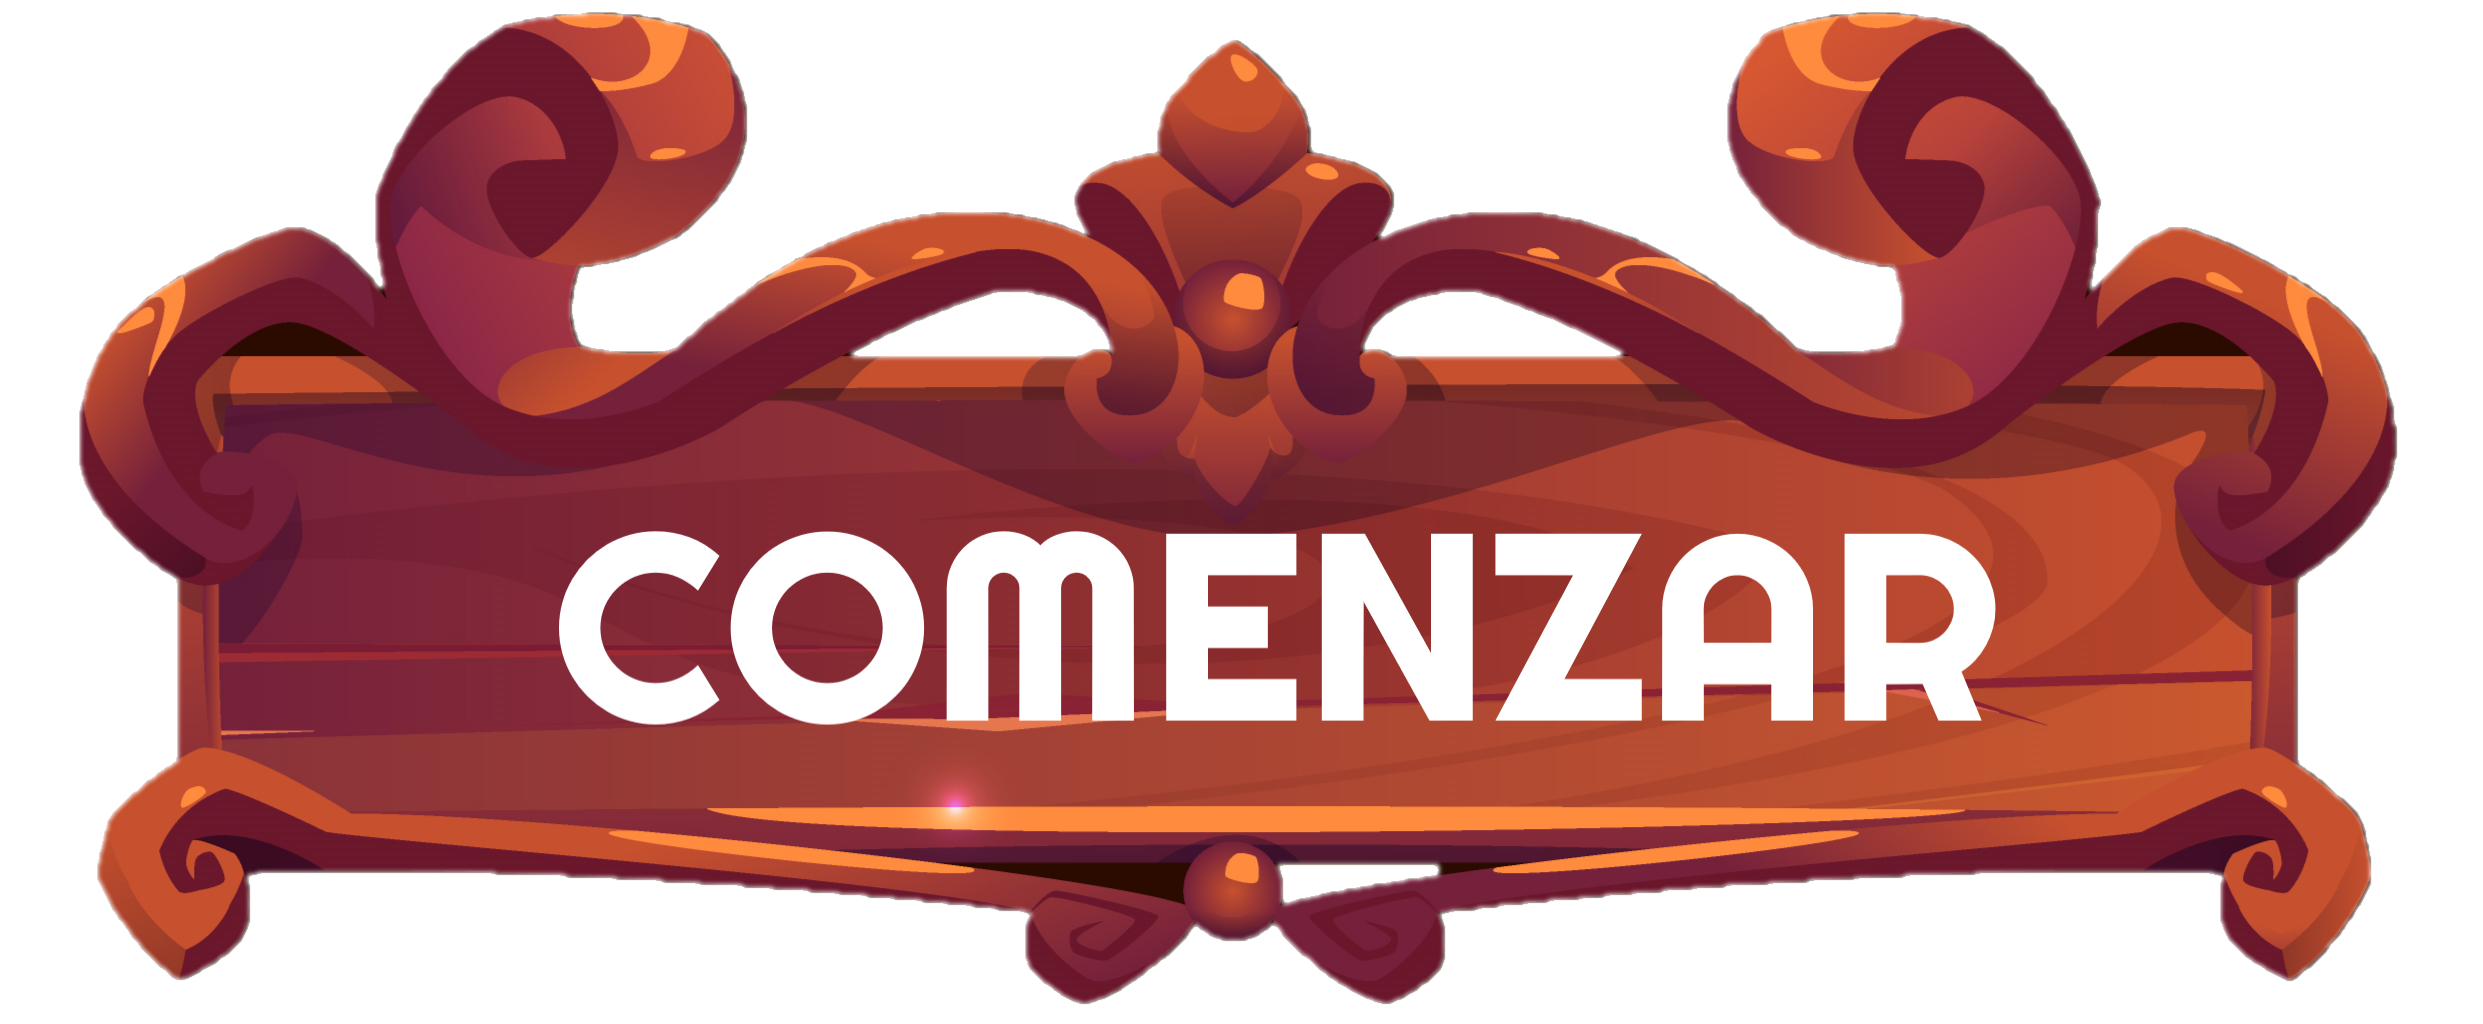
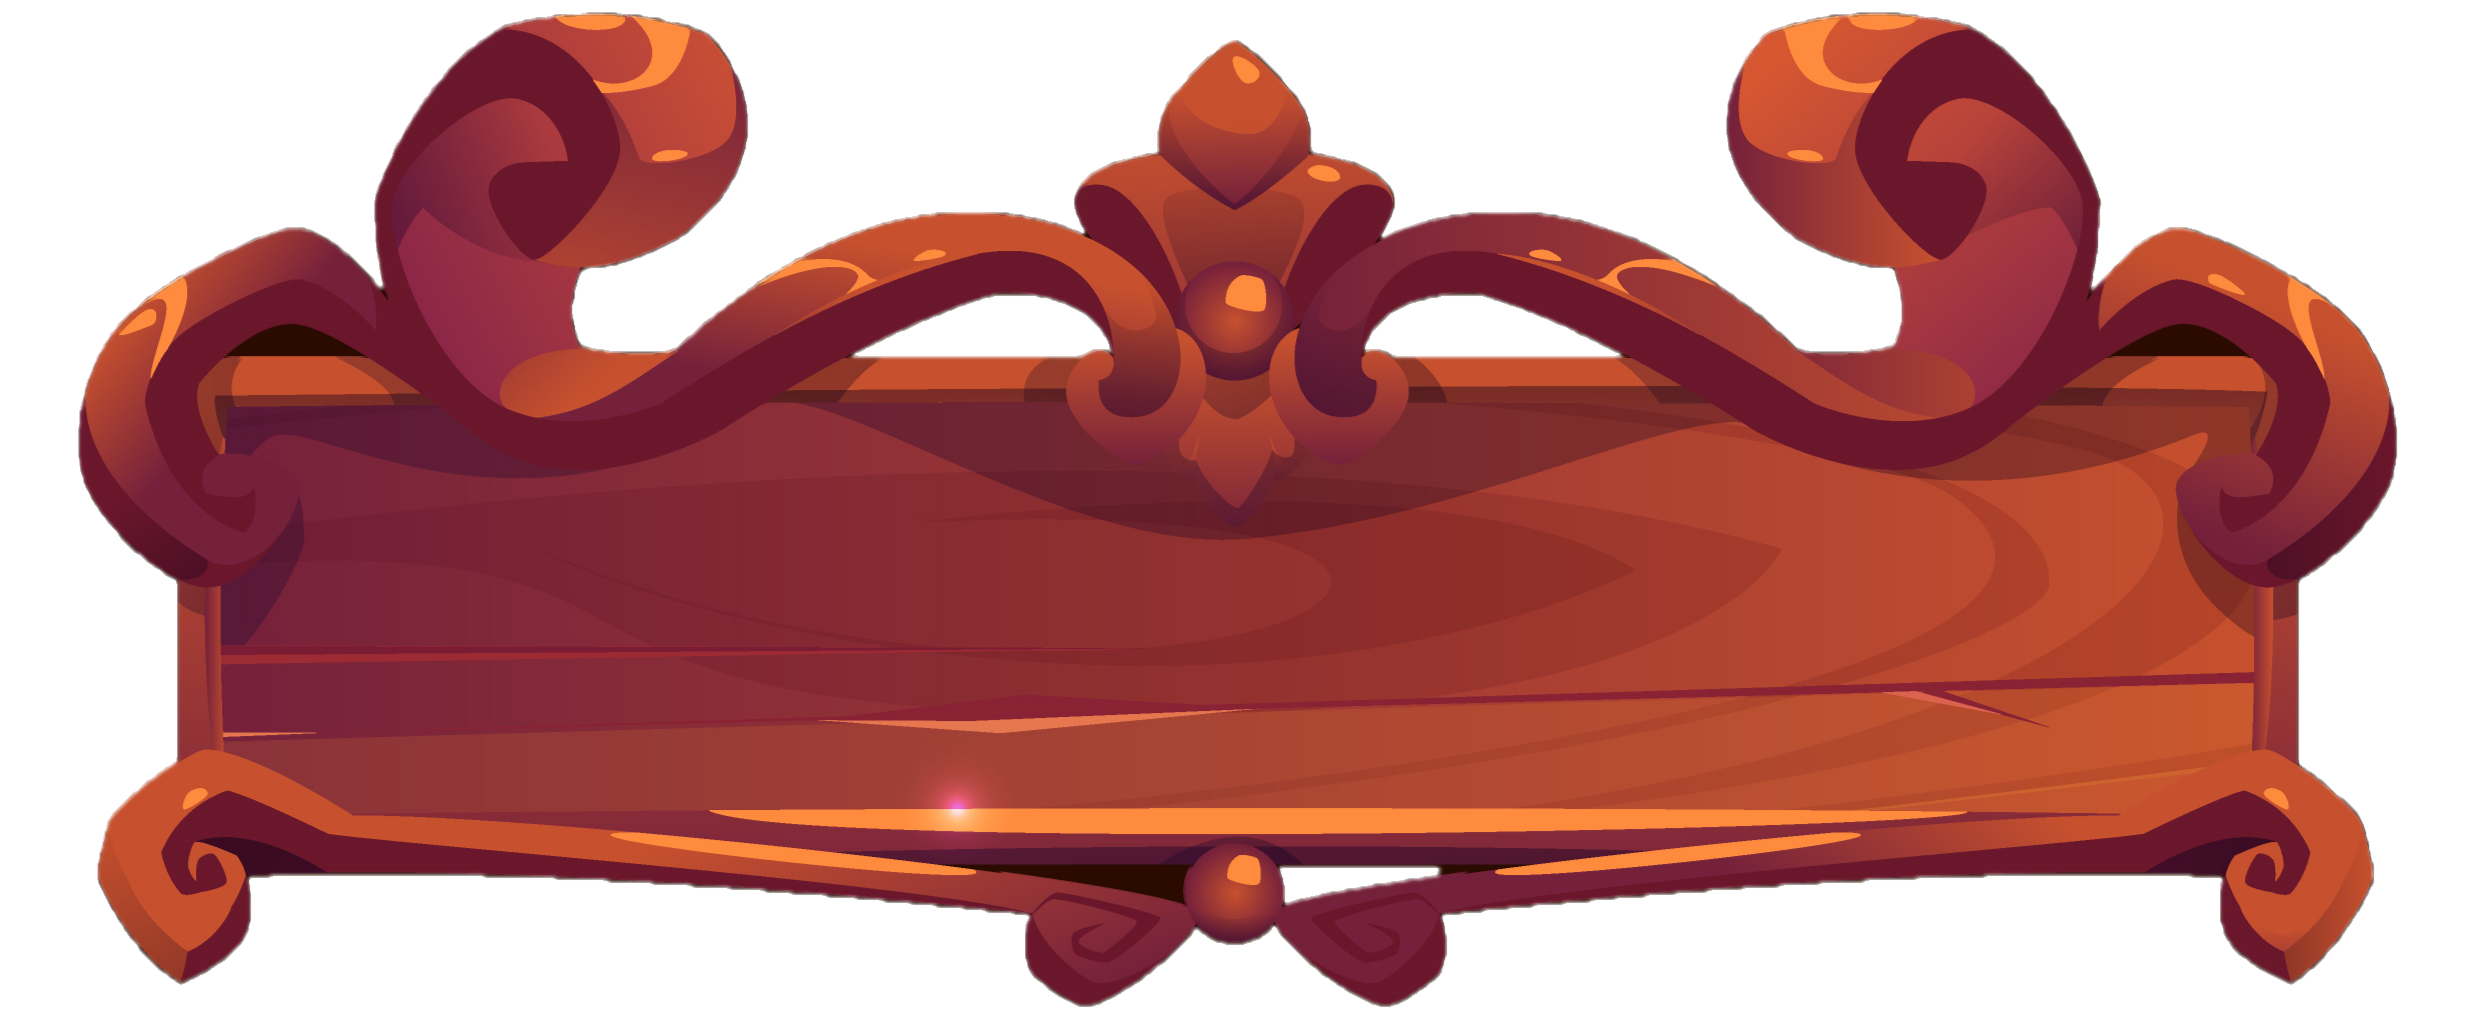
muy buen avance

diff --git a/static/js/combate.js b/static/js/combate.js
@@ -14,13 +14,13 @@ com_btn.addEventListener('mouseover',()=>{
     com_btn.style.cursor='pointer'
 })
 
-const actualizar =()=>{
-    cont_turnos.innerText=`Tu turno!`
-}
+
+    
+
 
 com_btn.addEventListener('click',()=>{
     acu++
-    actualizar()
+    cont_turnos.innerText=`Tu turno!`
     if(comprobador==1){
         document.querySelectorAll('hab-group').remove()        
         comprobador--
@@ -29,19 +29,21 @@ com_btn.addEventListener('click',()=>{
     hab_disp()
     hab_enem_disp()
     comprobador++
-  
+    document.getElementById("comenzar").className="animate__animated animate__fadeOut"
+    setTimeout(() => {
+        document.getElementById("comenzar").remove()
+    }, 1000);    
 })
 
-const pepe=new Mago('Adrian',valorAleatorio(1,5),valorAleatorio(5,10),valorAleatorio(1,8),valorAleatorio(1,8),valorAleatorio(5,10))
+const pepe=new Mago('Adrian',valorAleatorio(1,5),valorAleatorio(5,10),valorAleatorio(1,8),valorAleatorio(1,8),valorAleatorio(1,8))
 const enemyofpepe=new Esqueleto (valorAleatorio(1,4),valorAleatorio(1,2),valorAleatorio(1,10))
 
 const hab_disp=()=>{    
 pepe.habilidades.forEach(habilidad=>{
-    hab_cont++
-
-    // variableUsada=valorAleatorio(0,2)
+    hab_cont++    
     const habs=document.createElement('div')
     habs.id='hab'
+    habs.className="animate__animated animate__fadeIn"
     habs.innerHTML=`<h3 class='hab-group' id='hab${hab_cont}'><a >${habilidad.Nombre}</a></h3>`
     document.getElementById('hab-player').appendChild(habs)  
     
@@ -54,29 +56,34 @@ fire1.addEventListener('mouseover',()=>{
     fire1.style.cursor='pointer'
 })
 
-function usehab(number){
-    if (comprobador==1)
-    {
-        onom.remove()
-        comprobador--
-    }
-    const onom=document.createElement('div')
+function usehab(number){ 
+   
+    const onom=document.createElement('div') 
     onom.innerHTML=`<img src="/Gameproject/static/assets/dmgono.png"  id="onodmg">
                     <h2 id='dmg'>${pepe.danioHabilidad(number)}</h2>`
-    onom.className="animate__animate animate__heartBeat"   
+    onom.className="animate__animated animate__heartBeat"   
     document.getElementById('Enemy').appendChild(onom)
     GiveDmg(pepe.danioHabilidad(number),enemyofpepe,enemyhp)
+
+    enemy_div.className="animate__animated animate__shakeX"
+    setTimeout(() =>{         
+        onom.className="animate__animated animate__zoomOut"
+      }, 2000);
     
-    
+    setTimeout(() =>{         
+        onom.remove()  
+      }, 3000);
+   
 }
 
 fire1.addEventListener('click',()=>{
+    
     usehab(0)
     setTimeout(() =>{ 
         turno_enemigo()  
-        
       }, 1000);
-})  
+
+    })  
     
 
 const fire2=document.getElementById('hab2')
@@ -85,10 +92,11 @@ fire2.addEventListener('mouseover',()=>{
 })
 
 fire2.addEventListener('click',()=>{
-    usehab(1)
+    usehab(1)    
     setTimeout(() =>{ 
         turno_enemigo()  
       }, 1000);
+   
  
 })
 const fire3=document.getElementById('hab3')
@@ -112,6 +120,7 @@ const hab_enem_disp=()=>{
         variableUsada=valorAleatorio(0,2)
         const enemyhabs=document.createElement('div')
         enemyhabs.id='enemyhabs'
+        enemyhabs.className="animate__animated animate__fadeIn"
         enemyhabs.innerHTML=`<h3 class='hab-enem_group' id='enemyhab${enemyhab_cont}'><a >${habilidad.Nombre}</a></h3>`
         document.getElementById('hab-enem').appendChild(enemyhabs)  
     
@@ -126,15 +135,19 @@ console.log(enemyofpepe.vida)
 
 
 
-function GiveDmg (param1,who,change){
-   
+function GiveDmg (param1,who,change){   
    
     who.vida-=param1
-    if (who.vida<=0){
-        who.vida=0
-        Swal.fire("Derrotaste a tu enemigo!, la aventura continua!")
-    }  
     
+    if (pepe.vida<=0){
+        pepe.vida=0
+        Swal.fire("Has sido derrotado , clic en inicio para volver a empezar")
+    }
+    if (enemyofpepe.vida<=0 ){
+        enemyofpepe.vida=0       
+        Swal.fire("Derrotaste a tu enemigo!, la aventura continua!")
+        cont_turnos.innerText=`Ganaste!`
+    }      
     change.innerText=`${who.vida}`
     change.className="hpbars animate__animated animate__flipInX" 
 }
@@ -146,6 +159,8 @@ setTimeout(() =>{
 // document.getElementById('Player').style.backgroundImage=`${encontre.clase.portrait}`
 
 const turno_enemigo = ()=>{
+
+    if(enemyofpepe.vida>0){
     variableUsada=valorAleatorio(0,2)
     cont_turnos.innerText=`Turno enemigo`
     const onom=document.createElement('div')
@@ -154,9 +169,19 @@ const turno_enemigo = ()=>{
     onom.className="animate__animate animate__heartBeat"   
     document.getElementById('Player').appendChild(onom)
     GiveDmg(enemyofpepe.danioHabilidad(variableUsada),pepe,playerhp)
-    console.log(enemyofpepe.habilidades[variableUsada].Nombre)
+    document.getElementById('Player').className="animate__animated animate__shakeX"    
+    variableUsada++
+    en_as=document.getElementById(`enemyhab${variableUsada}`)
+    en_as.style.color='rgb(154, 63, 154)'    
+    console.log(en_as)
     setTimeout(() =>{ 
         cont_turnos.innerText=`Tu turno!`
+        en_as.style.color='white'
         
-      }, 1500);
+      }, 1500)
+    }
+}
+
+const remover=(param1,param2)=>{
+    console.log('')
 }

diff --git a/static/css/combate.css b/static/css/combate.css
@@ -89,11 +89,24 @@ position: absolute;
     padding-top:-10%;
 }
 #btn-comenzar{
+    background-image: url("/Gameproject/static/assets/comenzar.png");
+    background-size: contain;
     width: 250px;
     height: 100px;
     position: fixed;
-    margin-top: -60px;
+    margin-top: -65px;
+    padding-left:55px;
+    padding-top: 47px;
+    font-size: 25px;
+    color: white;
+    -webkit-text-stroke: 1.5px black;
+
 }
+
+#btn-comenzar:hover{
+    color: rgb(154, 63, 154)
+}
+
 
 #swords{
     position: fixed;
@@ -116,6 +129,9 @@ position: absolute;
     margin-left: -20px;
     font-family: 'Righteous', cursive;
     color: white;
+    -webkit-text-stroke: 0.8px black
+    
+    
    
 }
 .hab-enem_group{
@@ -130,7 +146,8 @@ position: absolute;
     font-size: 20px;
     margin-left: -80px;
     font-family: 'Righteous', cursive;
-    color: white;   
+    color: white;
+    -webkit-text-stroke: 0.8px black  
 }
 
 #hab1:hover {

diff --git a/template/combate.html b/template/combate.html
@@ -16,15 +16,15 @@
      
     <div id="combat-place">
         <div id="cont-turnos"></div>
-        <p id="turnos">Turnos</p>
+        <p id="turnos">Empieza la pelea!</p>
         <div id='hab-player'></div>
         <div id='hab-enem'></div>
 
     </div>
         <img src="/Gameproject/static/assets/swords.png" id="swords" class="animate__animated animate__backInDown"> 
-        <div id="comenzar">
-            <img src="/Gameproject/static/assets/comenzar.png" id="btn-comenzar" >
+        <div id="comenzar" class="animate__animated animate__fadeIn">
             
+            <p id="btn-comenzar">COMENZAR</p>
         </div>
     </div>
     <div id="Enemy" class="animate__animated animate__fadeInRight"></div>    

diff --git a/static/js/Personaje&enemigos.js b/static/js/Personaje&enemigos.js
@@ -148,9 +148,9 @@ class Esqueleto{
     this.vida=parseInt(40*(constitucion/5))
     this.portrait="url(/Gameproject/static/assets/skeletal_enemy.jpg)"
     this.habilidades =[ {
-        Nombre:"Carga osea",
+        Nombre:"Carga",
         Danio:30}
-    ,{Nombre:"Ataque con espada",
+    ,{Nombre:"Golpe",
     Danio:15},
     {Nombre:"Salto oseo"
     ,Danio:15}]
@@ -214,7 +214,7 @@ class Hlobo{
     this.constitucion=parseInt(constitucion)
     
     let habilidades =[ {
-        Nombre:"Garras y colmillos",
+        Nombre:"Mordida",
         Danio:15}
     ,{Nombre:"Ataque bestial",
     Danio:30}]
